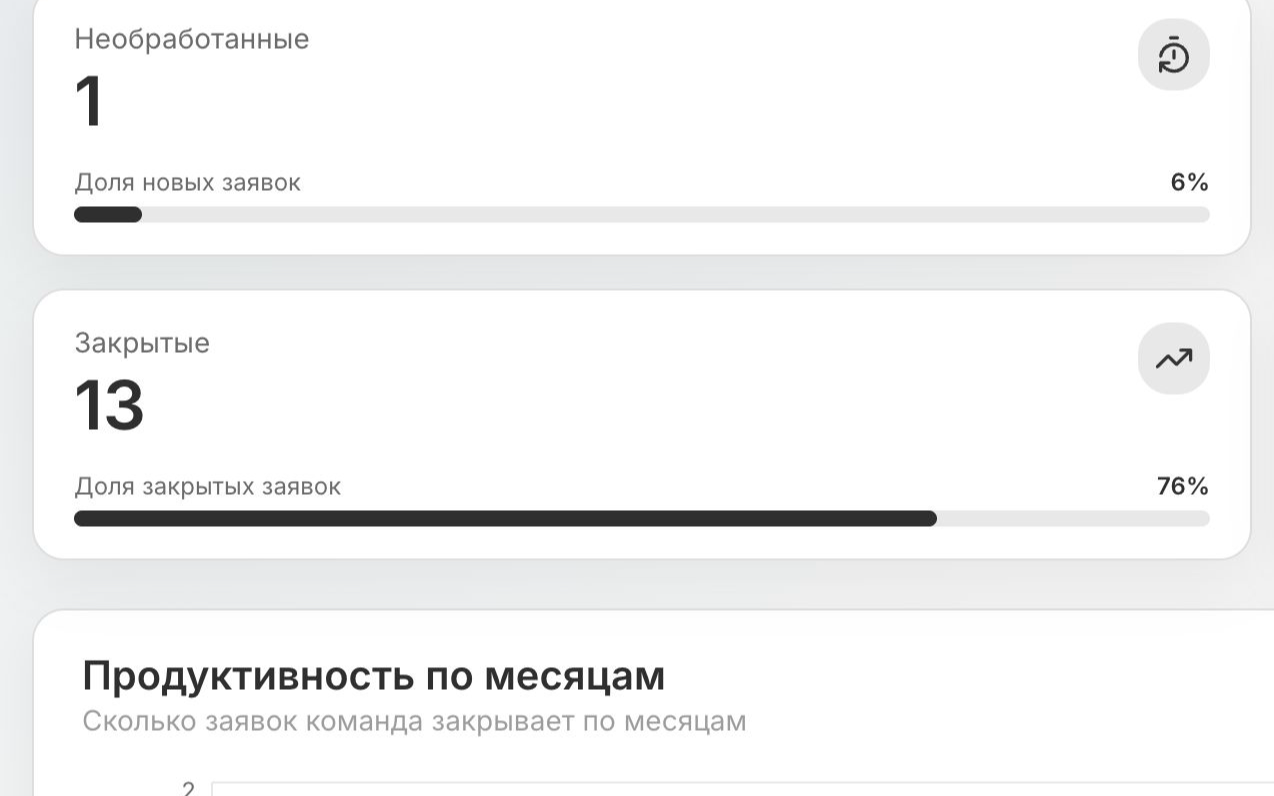
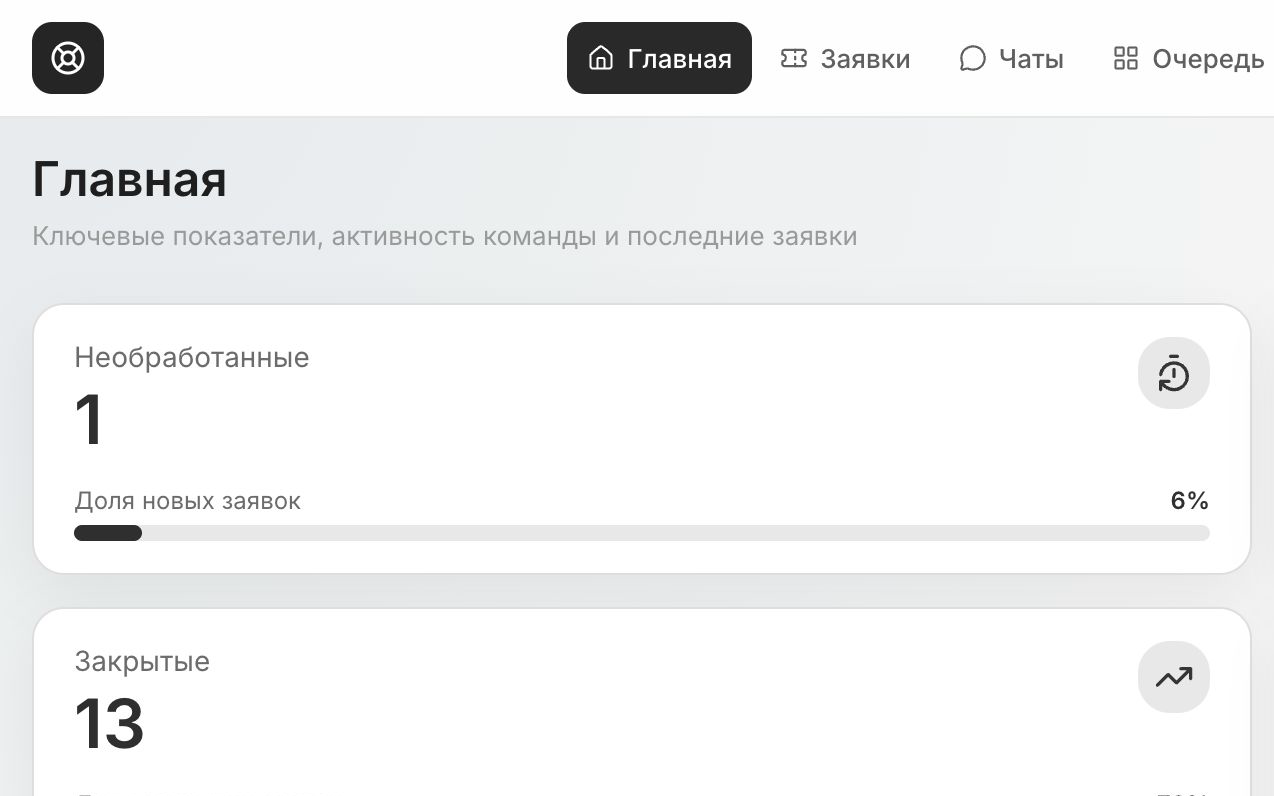
Use full viewport project screenshots

diff --git a/docs/index.html b/docs/index.html
@@ -215,10 +215,12 @@
       .project { position: relative; overflow: hidden; display: grid; grid-template-columns: minmax(280px, 0.74fr) minmax(0, 1fr); align-items: start; }
       .project::before { content: ""; position: absolute; z-index: 2; inset: 0 0 auto; height: 3px; background: linear-gradient(90deg, var(--accent), var(--cool), var(--warm), var(--gold)); transform: scaleX(0); transform-origin: left; transition: transform 420ms ease; }
       .project:hover::before { transform: scaleX(1); }
-      .shot-main { position: relative; overflow: hidden; min-height: 0; height: auto; padding: 18px; display: flex; align-items: flex-start; justify-content: center; background: #17201b; }
+      .shot-main { position: relative; overflow: hidden; min-height: 0; width: 100%; aspect-ratio: 16 / 10; padding: 18px; display: flex; align-items: center; justify-content: center; background: #17201b; cursor: zoom-in; }
       .shot-main::before { content: ""; position: absolute; inset: 0; background: linear-gradient(120deg, rgba(255, 255, 255, 0.12), transparent 34%), radial-gradient(circle at 78% 18%, rgba(201, 150, 46, 0.14), transparent 18rem); opacity: 0.7; pointer-events: none; }
       .shot-main::after { content: ""; position: absolute; inset: 18px; border-radius: 8px; background: linear-gradient(180deg, transparent 62%, rgba(16, 22, 20, 0.16)); pointer-events: none; }
-      .shot-main img { position: relative; z-index: 1; width: 100%; height: auto; min-height: 0; max-height: none; aspect-ratio: 16 / 10; display: block; object-fit: cover; object-position: left top; border-radius: 8px; background: #f5f7f4; box-shadow: 0 18px 38px rgba(0, 0, 0, 0.28); transition: transform 420ms ease, filter 420ms ease; }
+      .shot-main-open { position: absolute; z-index: 2; right: 30px; bottom: 30px; border: 1px solid rgba(255, 255, 255, 0.4); border-radius: 999px; padding: 8px 11px; color: #fff; background: rgba(16, 22, 20, 0.72); box-shadow: 0 12px 28px rgba(0, 0, 0, 0.2); font-size: 12px; font-weight: 800; opacity: 0; transform: translate3d(0, 8px, 0); transition: opacity 180ms ease, transform 180ms ease; pointer-events: none; }
+      .shot-main:hover .shot-main-open, .shot-main:focus-visible .shot-main-open { opacity: 1; transform: translate3d(0, 0, 0); }
+      .shot-main img { position: relative; z-index: 1; width: 100%; height: 100%; min-height: 0; max-height: none; aspect-ratio: 16 / 10; display: block; object-fit: contain; object-position: center center; border-radius: 8px; background: #f5f7f4; box-shadow: 0 18px 38px rgba(0, 0, 0, 0.28); transition: transform 420ms ease, filter 420ms ease; }
       .project:hover .shot-main img { transform: scale(1.018); filter: saturate(1.08) contrast(1.03); }
       .project-body { padding: clamp(22px, 4vw, 38px); }
       .meta, .chips { display: flex; flex-wrap: wrap; gap: 8px; }
@@ -282,9 +284,10 @@
         .actions a { width: 100%; }
         .service-grid, .details { grid-template-columns: 1fr; }
         .section, .section.wide { width: min(100% - 28px, 1180px); padding: 58px 0; }
-        .shot-main { min-height: 0; height: auto; padding: 14px; }
+        .shot-main { min-height: 0; padding: 14px; }
         .shot-main img { min-height: 0; max-height: none; }
         .shot-main::after { inset: 14px; }
+        .shot-main-open { right: 22px; bottom: 22px; opacity: 1; }
       }
     </style>
     <script type="application/ld+json">
@@ -337,7 +340,7 @@
         </div>
         <div class="project-list">
           <article class="project">
-            <div class="shot-main"><img src="screenshots/servicedesk-dashboard-cover.png" alt="Office ServiceDesk dashboard" width="1274" height="796" /></div>
+            <a class="shot-main" href="screenshots/servicedesk-dashboard-cover.png" target="_blank" rel="noreferrer" aria-label="Открыть полный скриншот проекта Office ServiceDesk"><img src="screenshots/servicedesk-dashboard-cover.png" alt="Office ServiceDesk dashboard" width="1274" height="796" /><span class="shot-main-open">Открыть полный скрин</span></a>
             <div class="project-body">
               <div class="meta"><span>внутренний сервис</span><span>используется 3 компаниями</span></div>
               <h3>Office ServiceDesk</h3>
@@ -357,7 +360,7 @@
           </article>
 
           <article class="project">
-            <div class="shot-main"><img src="screenshots/marketplacebot-compile.png" alt="MarketplaceBot verification" width="1600" height="1000" /></div>
+            <a class="shot-main" href="screenshots/marketplacebot-compile.png" target="_blank" rel="noreferrer" aria-label="Открыть полный скриншот проекта MarketplaceBot"><img src="screenshots/marketplacebot-compile.png" alt="MarketplaceBot verification" width="1600" height="1000" /><span class="shot-main-open">Открыть полный скрин</span></a>
             <div class="project-body">
               <div class="meta"><span>автоматизация маркетплейсов</span><span>меньше ручной работы для 3 сотрудников</span></div>
               <h3>MarketplaceBot</h3>
@@ -374,7 +377,7 @@
           </article>
 
           <article class="project">
-            <div class="shot-main"><img src="screenshots/ai-workbench.jpg" alt="AI Workbench dashboard" width="1280" height="720" /></div>
+            <a class="shot-main" href="screenshots/ai-workbench.jpg" target="_blank" rel="noreferrer" aria-label="Открыть полный скриншот проекта AI Workbench"><img src="screenshots/ai-workbench.jpg" alt="AI Workbench dashboard" width="1280" height="720" /><span class="shot-main-open">Открыть полный скрин</span></a>
             <div class="project-body">
               <div class="meta"><span>AI-инструмент</span><span>используется в реальных фриланс-задачах</span></div>
               <h3>AI Workbench</h3>
@@ -414,9 +417,9 @@
       <section class="section wide" id="other-projects">
         <div class="section-head"><div><p class="kicker">Дополнительные проекты</p><h2>Утилиты, боты и инструменты для прикладных задач</h2></div></div>
         <div class="project-list">
-          <article class="project"><div class="shot-main"><img src="screenshots/max-summary-typecheck.png" alt="MAX Summary Bot" width="1600" height="1000" loading="lazy" /></div><div class="project-body"><div class="meta"><span>бот и обработка текста</span><span>архитектура готова к демонстрации</span></div><h3>MAX Summary Bot</h3><p class="headline">Бот для создания кратких выжимок из текста, ссылок и файлов.</p><div class="details"><div><span>Задача</span><p>Принимать материалы из мессенджера, нормализовать входные данные и возвращать структурированную выжимку.</p></div><div><span>Решение</span><p>Разделил messenger gateway и core-processing, добавил API-слой, очереди, типизацию и технические проверки.</p></div></div><div class="chips"><span>TypeScript</span><span>Fastify</span><span>pnpm workspaces</span><span>BullMQ</span></div><div class="project-actions"><a class="button" href="https://github.com/ncatofthe/max_summary_bot">Исходный код</a></div></div></article>
-          <article class="project"><div class="shot-main"><img src="screenshots/systeminfo-cover.png" alt="SystemInfo report" width="1600" height="1000" loading="lazy" /></div><div class="project-body"><div class="meta"><span>администрирование</span><span>быстрый сбор данных о ПК</span></div><h3>SystemInfo</h3><p class="headline">PowerShell-утилита для диагностики и инвентаризации Windows-рабочих станций.</p><div class="details"><div><span>Задача</span><p>Быстро получать сведения о системе без установки дополнительных программ и без прав администратора.</p></div><div><span>Решение</span><p>Собрал PowerShell-скрипт с WMI-запросами и понятным сценарием применения для IT-поддержки.</p></div></div><div class="chips"><span>PowerShell</span><span>WMI</span><span>Windows</span></div><div class="project-actions"><a class="button" href="https://github.com/ncatofthe/SystemInfo">Исходный код</a></div></div></article>
-          <article class="project"><div class="shot-main"><img src="screenshots/inventory-compile.png" alt="Inventory App" width="1600" height="1000" loading="lazy" /></div><div class="project-body"><div class="meta"><span>учет оборудования</span><span>прикладная IT-утилита</span></div><h3>Inventory App</h3><p class="headline">Приложение для учета IT-оборудования и быстрых инвентаризационных задач.</p><div class="details"><div><span>Задача</span><p>Фиксировать оборудование, искать записи и поддерживать порядок в IT-активах.</p></div><div><span>Решение</span><p>Собрал приложение для локального учета техники с понятной структурой данных и рабочим сценарием.</p></div></div><div class="chips"><span>Python</span><span>SQLite</span><span>Tkinter</span><span>IT support</span></div><div class="project-actions"><a class="button" href="https://github.com/ncatofthe/inventory_app">Исходный код</a></div></div></article>
+          <article class="project"><a class="shot-main" href="screenshots/max-summary-typecheck.png" target="_blank" rel="noreferrer" aria-label="Открыть полный скриншот проекта MAX Summary Bot"><img src="screenshots/max-summary-typecheck.png" alt="MAX Summary Bot" width="1600" height="1000" loading="lazy" /><span class="shot-main-open">Открыть полный скрин</span></a><div class="project-body"><div class="meta"><span>бот и обработка текста</span><span>архитектура готова к демонстрации</span></div><h3>MAX Summary Bot</h3><p class="headline">Бот для создания кратких выжимок из текста, ссылок и файлов.</p><div class="details"><div><span>Задача</span><p>Принимать материалы из мессенджера, нормализовать входные данные и возвращать структурированную выжимку.</p></div><div><span>Решение</span><p>Разделил messenger gateway и core-processing, добавил API-слой, очереди, типизацию и технические проверки.</p></div></div><div class="chips"><span>TypeScript</span><span>Fastify</span><span>pnpm workspaces</span><span>BullMQ</span></div><div class="project-actions"><a class="button" href="https://github.com/ncatofthe/max_summary_bot">Исходный код</a></div></div></article>
+          <article class="project"><a class="shot-main" href="screenshots/systeminfo-cover.png" target="_blank" rel="noreferrer" aria-label="Открыть полный скриншот проекта SystemInfo"><img src="screenshots/systeminfo-cover.png" alt="SystemInfo report" width="1600" height="1000" loading="lazy" /><span class="shot-main-open">Открыть полный скрин</span></a><div class="project-body"><div class="meta"><span>администрирование</span><span>быстрый сбор данных о ПК</span></div><h3>SystemInfo</h3><p class="headline">PowerShell-утилита для диагностики и инвентаризации Windows-рабочих станций.</p><div class="details"><div><span>Задача</span><p>Быстро получать сведения о системе без установки дополнительных программ и без прав администратора.</p></div><div><span>Решение</span><p>Собрал PowerShell-скрипт с WMI-запросами и понятным сценарием применения для IT-поддержки.</p></div></div><div class="chips"><span>PowerShell</span><span>WMI</span><span>Windows</span></div><div class="project-actions"><a class="button" href="https://github.com/ncatofthe/SystemInfo">Исходный код</a></div></div></article>
+          <article class="project"><a class="shot-main" href="screenshots/inventory-compile.png" target="_blank" rel="noreferrer" aria-label="Открыть полный скриншот проекта Inventory App"><img src="screenshots/inventory-compile.png" alt="Inventory App" width="1600" height="1000" loading="lazy" /><span class="shot-main-open">Открыть полный скрин</span></a><div class="project-body"><div class="meta"><span>учет оборудования</span><span>прикладная IT-утилита</span></div><h3>Inventory App</h3><p class="headline">Приложение для учета IT-оборудования и быстрых инвентаризационных задач.</p><div class="details"><div><span>Задача</span><p>Фиксировать оборудование, искать записи и поддерживать порядок в IT-активах.</p></div><div><span>Решение</span><p>Собрал приложение для локального учета техники с понятной структурой данных и рабочим сценарием.</p></div></div><div class="chips"><span>Python</span><span>SQLite</span><span>Tkinter</span><span>IT support</span></div><div class="project-actions"><a class="button" href="https://github.com/ncatofthe/inventory_app">Исходный код</a></div></div></article>
         </div>
       </section>
 

diff --git a/app/globals.css b/app/globals.css
@@ -581,12 +581,14 @@ h1 {
   position: relative;
   overflow: hidden;
   min-height: 0;
-  height: auto;
+  width: 100%;
+  aspect-ratio: 16 / 10;
   display: flex;
-  align-items: flex-start;
+  align-items: center;
   justify-content: center;
   padding: 18px;
   background: #17201b;
+  cursor: zoom-in;
 }
 
 .project-shot::before {
@@ -609,17 +611,44 @@ h1 {
   pointer-events: none;
 }
 
+.project-shot-open {
+  position: absolute;
+  z-index: 2;
+  right: 30px;
+  bottom: 30px;
+  border: 1px solid rgba(255, 255, 255, 0.4);
+  border-radius: 999px;
+  padding: 8px 11px;
+  color: #fff;
+  background: rgba(16, 22, 20, 0.72);
+  box-shadow: 0 12px 28px rgba(0, 0, 0, 0.2);
+  font-size: 12px;
+  font-weight: 800;
+  opacity: 0;
+  transform: translate3d(0, 8px, 0);
+  transition:
+    opacity 180ms ease,
+    transform 180ms ease;
+  pointer-events: none;
+}
+
+.project-shot:hover .project-shot-open,
+.project-shot:focus-visible .project-shot-open {
+  opacity: 1;
+  transform: translate3d(0, 0, 0);
+}
+
 .project-shot img {
   position: relative;
   z-index: 1;
   display: block;
   width: 100%;
-  height: auto;
+  height: 100%;
   min-height: 0;
   max-height: none;
   aspect-ratio: 16 / 10;
-  object-fit: cover;
-  object-position: left top;
+  object-fit: contain;
+  object-position: center center;
   border-radius: 8px;
   background: #f5f7f4;
   box-shadow: 0 18px 38px rgba(0, 0, 0, 0.28);
@@ -1268,7 +1297,6 @@ summary:focus-visible {
   .project-visual,
   .project-shot {
     min-height: 0;
-    height: auto;
     padding: 14px;
   }
 
@@ -1279,6 +1307,12 @@ summary:focus-visible {
 
   .project-shot::after {
     inset: 14px;
+  }
+
+  .project-shot-open {
+    right: 22px;
+    bottom: 22px;
+    opacity: 1;
   }
 
   .visual-grid {

diff --git a/app/page.tsx b/app/page.tsx
@@ -287,7 +287,13 @@ function ProjectCard({ project, compact = false }: { project: (typeof projects)[
 
   return (
     <article className={`project-card ${compact ? "project-card-compact" : "project-card-featured"}`}>
-      <div className="project-shot">
+      <a
+        className="project-shot"
+        href={mainShot.src}
+        target="_blank"
+        rel="noreferrer"
+        aria-label={`Открыть полный скриншот проекта ${project.title}`}
+      >
         <img
           src={mainShot.src}
           alt={`Скриншот проекта ${project.title}: ${mainShot.caption}`}
@@ -295,7 +301,8 @@ function ProjectCard({ project, compact = false }: { project: (typeof projects)[
           height={mainShot.height}
           loading={compact ? "lazy" : "eager"}
         />
-      </div>
+        <span className="project-shot-open">Открыть полный скрин</span>
+      </a>
       <div className="project-content">
         <div className="project-meta">
           <span>{project.tag}</span>
